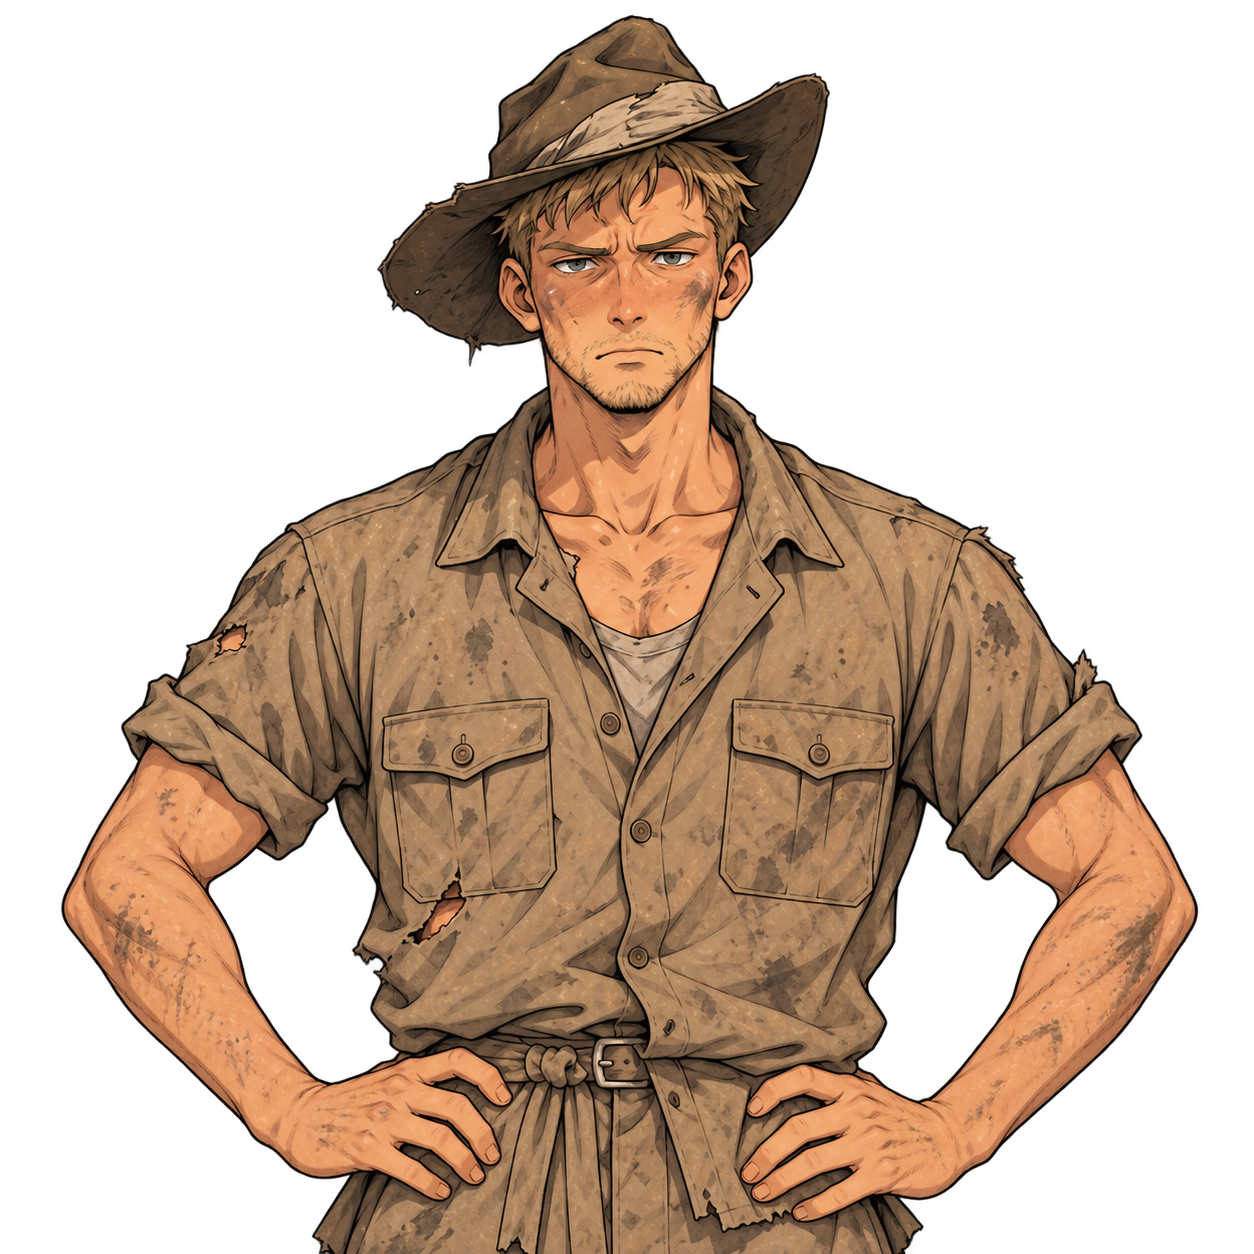
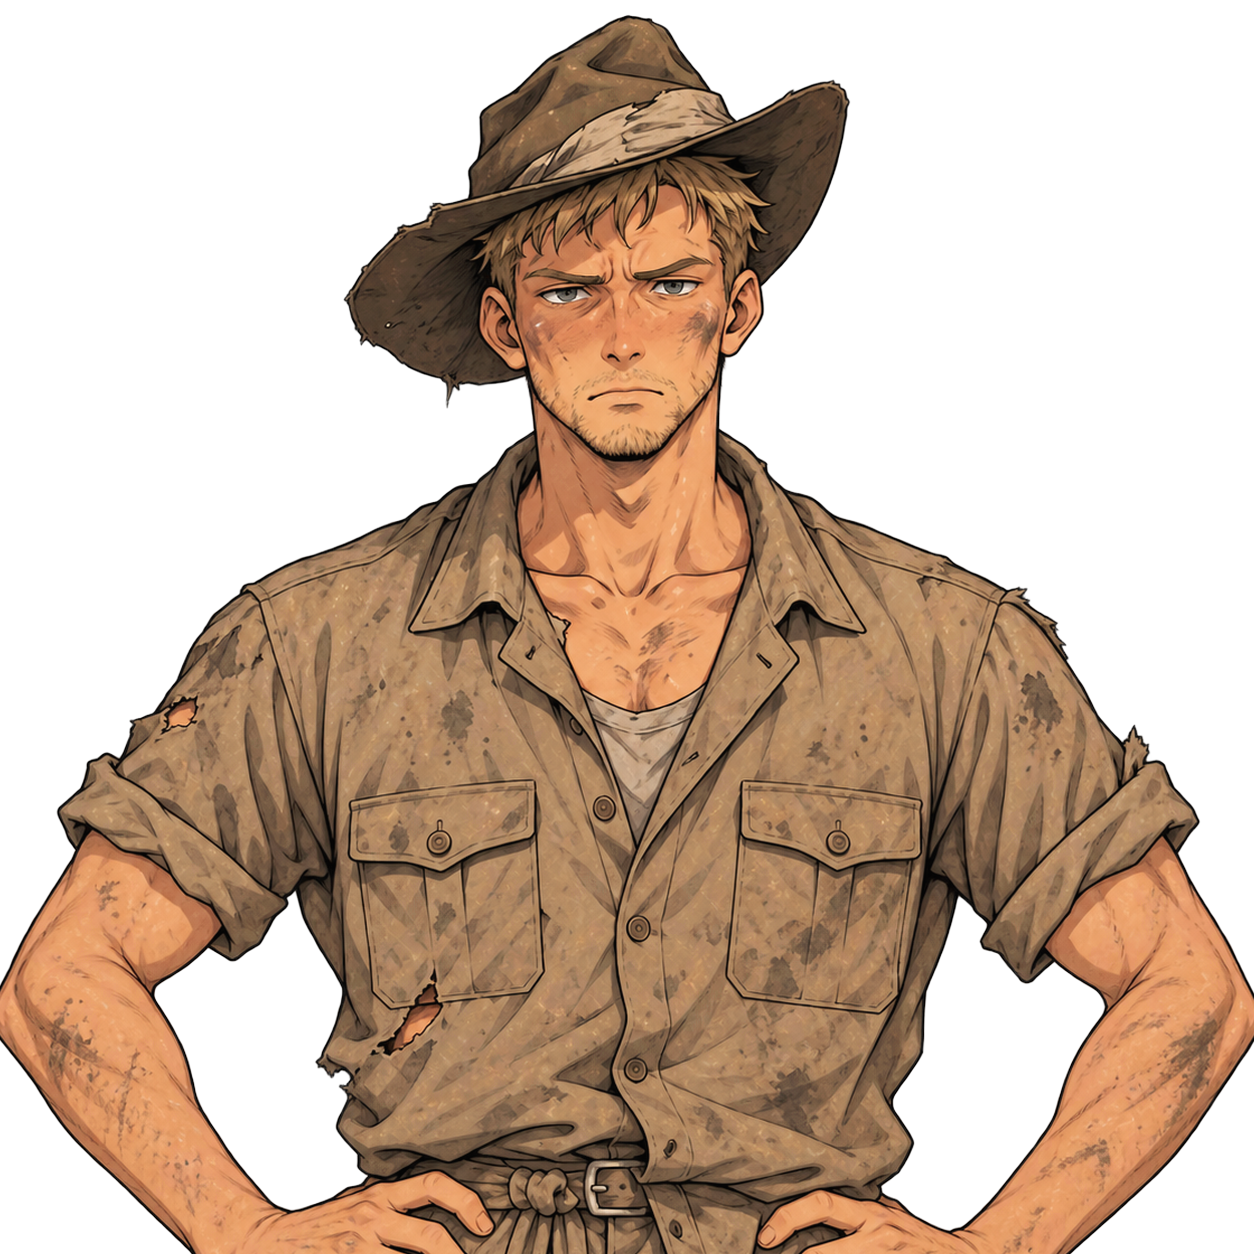
2화 인물 표정 그림 크기 맞춤, 가장자리 조각 정리, 진행 상황 기록
Claude-Session: https://claude.ai/code/session_01NHYzrX55wKaEEAPmcQpN8C

diff --git a/docs/스프라이트_목록.md b/docs/스프라이트_목록.md
@@ -539,4 +539,5 @@ ChatGPT에 한 번에 여러 장(따로 된 그림)을 요청해서 만든다.
 4. 법정 배경 8장과 책상 앞그림 4장 (완료)
 5. UI 42장 모두 완료
 6. 1화에 필요한 그림: 인물, 배경, 연출 컷, 증거 완료. `ep1_quota_table`만 다시 그리는 중 (표에 일본 지명이 들어감)
-7. 2화부터 차례로
+7. 2화: 인물 대부분 완료. `dongsik_sad`, `dongsik_determined` 없음, `yamamoto_breakdown` 다시 그리기 (옷이 포로 셔츠로 바뀌고 모자에 휘장이 생김). 배경, 연출 컷, 증거 남음
+8. 3화부터 차례로
